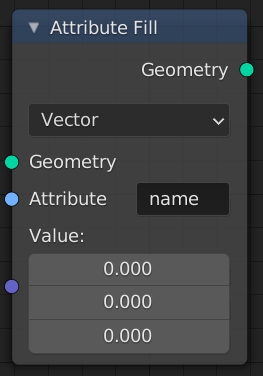
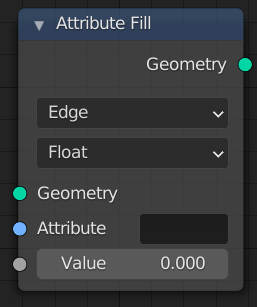
Geometry Nodes: attribute fill update
git-svn-id: https://svn.blender.org/svnroot/bf-manual/trunk@7880 c4de1f47-6596-e411-a384-0024e86c2797

diff --git a/blender_docs/manual/modeling/geometry_nodes/attribute/attribute_fill.rst b/blender_docs/manual/modeling/geometry_nodes/attribute/attribute_fill.rst
@@ -32,6 +32,10 @@ Value
 Properties
 ==========
 
+Domain
+   Domain of the output attribute. If this is set to *Auto*, it will use the domain
+   of the attribute if it exists already, otherwise it uses the *Point* domain.
+
 Data Type
    The type of data to fill the attribute with.
 
